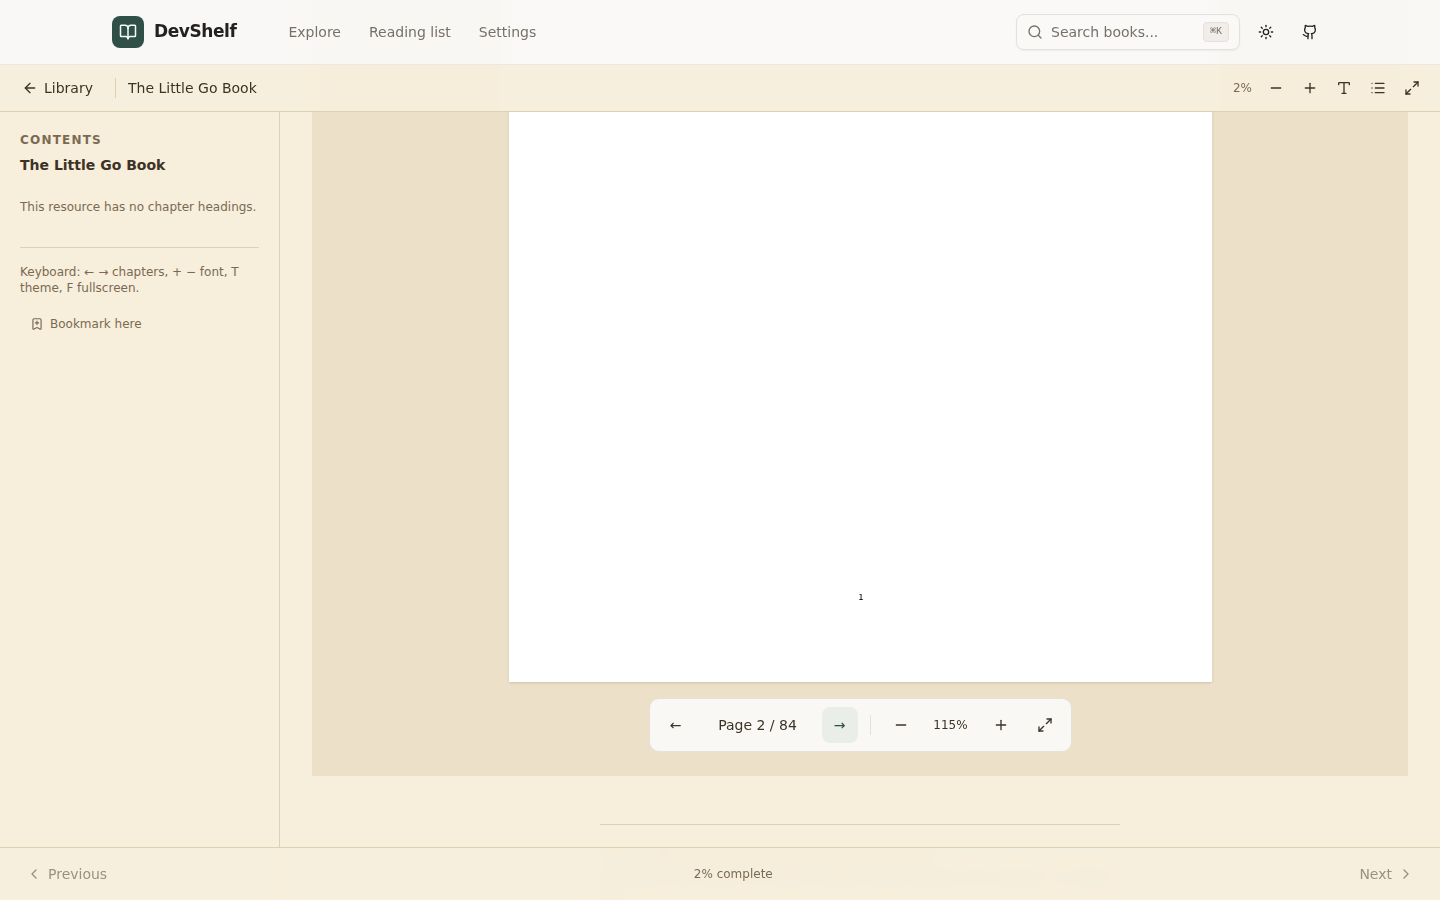
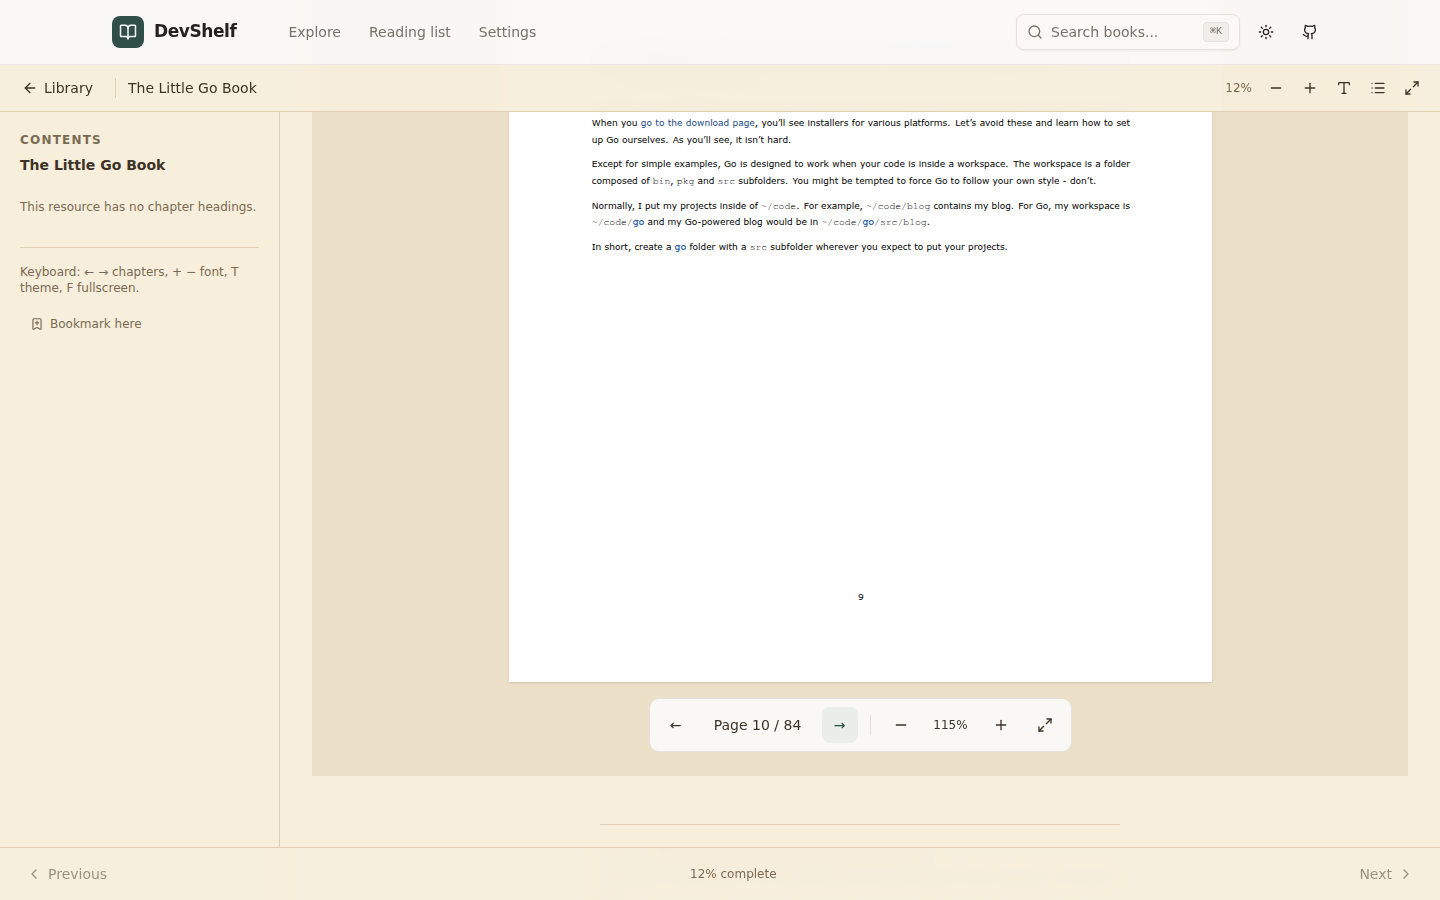
Refresh README screenshots from final build

Changed region(s): [[0.4062, 0.1244, 0.7812, 0.28], [0.5, 0.7778, 0.5625, 0.8089], [0.4688, 0.9644, 0.5312, 0.9956]]

diff --git a/README.md b/README.md
@@ -105,7 +105,7 @@ npm run validate:data # verify indexes, attribution and bundled content
 | Bundled readable books | 3 | `public/data/readable.json` |
 | Unit tests | 8 passing | `npm test` |
 | Static build | exits 0 | `npm run build` (output in `out/`) |
-| HTTP smoke checks | 19/19 | `npm run smoke -- http://127.0.0.1:4173/DevShelf` after `npm start`-style serving |
+| HTTP smoke checks | 19/19 | `npm run smoke` against a local `out/` server |
 
 Counts are derived from the committed catalog snapshot, not typed into the UI. The homepage reads the same files.
 
